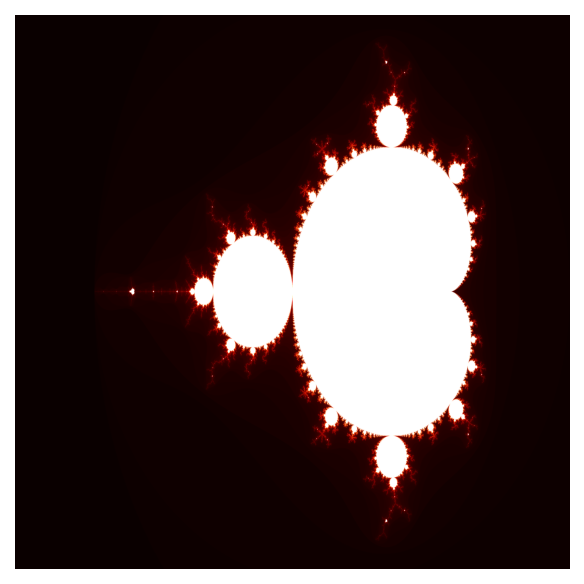
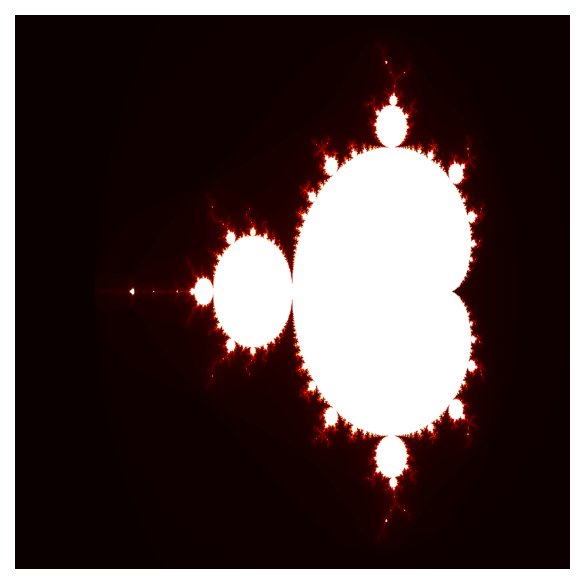
created bar chart for all the speedups

diff --git a/mandelbrot - nsc/mini_project_3/bar_chart.py b/mandelbrot - nsc/mini_project_3/bar_chart.py
@@ -1,0 +1,52 @@
+import matplotlib.pyplot as plt
+import numpy as np
+
+labels = [
+    "Naive", "NumPy", "Hybrid", "Numba",
+    "Multiprocessing", "Dask local", "Dask cluster",
+    "GPU f32", "GPU f64"
+]
+
+t1024 = [5.598, 0.586, 1.858, 0.075, 0.383, 0.106, 0.099, 0.0018, 0.0167]
+t4096 = [88.776, 18.237, 29.740, 1.243, 3.997, 1.305, 1.377, 0.0187, 0.2432]
+
+base_1024 = t1024[0]
+base_4096 = t4096[0]
+
+speedup_1024 = [base_1024 / t for t in t1024]
+speedup_4096 = [base_4096 / t for t in t4096]
+
+x = np.arange(len(labels))
+w = 0.35
+
+fig, ax = plt.subplots(figsize=(13, 6))
+
+bars1 = ax.bar(x - w/2, speedup_1024, width=w, label="1024×1024", color="#185FA5", zorder=3)
+bars2 = ax.bar(x + w/2, speedup_4096, width=w, label="4096×4096", color="#1D9E75", zorder=3)
+
+# Log scale — makes all bars readable
+ax.set_yscale("log")
+ax.yaxis.set_major_formatter(plt.FuncFormatter(lambda v, _: f"{v:g}×"))
+
+ax.set_xticks(x)
+ax.set_xticklabels(labels, rotation=40, ha="right", fontsize=11)
+ax.set_ylabel("Speedup (×) — log scale", fontsize=12)
+ax.set_title("Mandelbrot benchmark speedup comparison", fontsize=14)
+ax.legend(fontsize=11)
+ax.grid(axis="y", which="both", linestyle="--", linewidth=0.5, alpha=0.5, zorder=0)
+ax.set_axisbelow(True)
+
+# Value labels on top of each bar
+for bar in bars1:
+    h = bar.get_height()
+    ax.text(bar.get_x() + bar.get_width() / 2, h * 1.15,
+            f"{h:.1f}×", ha="center", va="bottom", fontsize=7.5, color="#185FA5")
+
+for bar in bars2:
+    h = bar.get_height()
+    ax.text(bar.get_x() + bar.get_width() / 2, h * 1.15,
+            f"{h:.1f}×", ha="center", va="bottom", fontsize=7.5, color="#1D9E75")
+
+plt.tight_layout()
+plt.savefig("mandelbrot_speedup.png", dpi=150, bbox_inches="tight")
+plt.show()

diff --git a/mandelbrot - nsc/mini_project_3/mandelbrot_gpu.py b/mandelbrot - nsc/mini_project_3/mandelbrot_gpu.py
@@ -41,7 +41,7 @@ queue = cl.CommandQueue(ctx)
 prog = cl.Program(ctx, KERNEL_SRC).build()
 
 # Parameters
-N, MAX_ITER = 4096, 200
+N, MAX_ITER = 1024, 200
 X_MIN, X_MAX = -2.5, 1.0
 Y_MIN, Y_MAX = -1.25, 1.25
 

diff --git a/mandelbrot - nsc/mini_project_3/mandelbrot_gpu_f64.py b/mandelbrot - nsc/mini_project_3/mandelbrot_gpu_f64.py
@@ -52,7 +52,7 @@ queue = cl.CommandQueue(ctx)
 prog = cl.Program(ctx, KERNEL_SRC).build()
 
 # Parameters
-N, MAX_ITER = 4096, 200
+N, MAX_ITER = 1024, 200
 X_MIN, X_MAX = -2.5, 1.0
 Y_MIN, Y_MAX = -1.25, 1.25
 